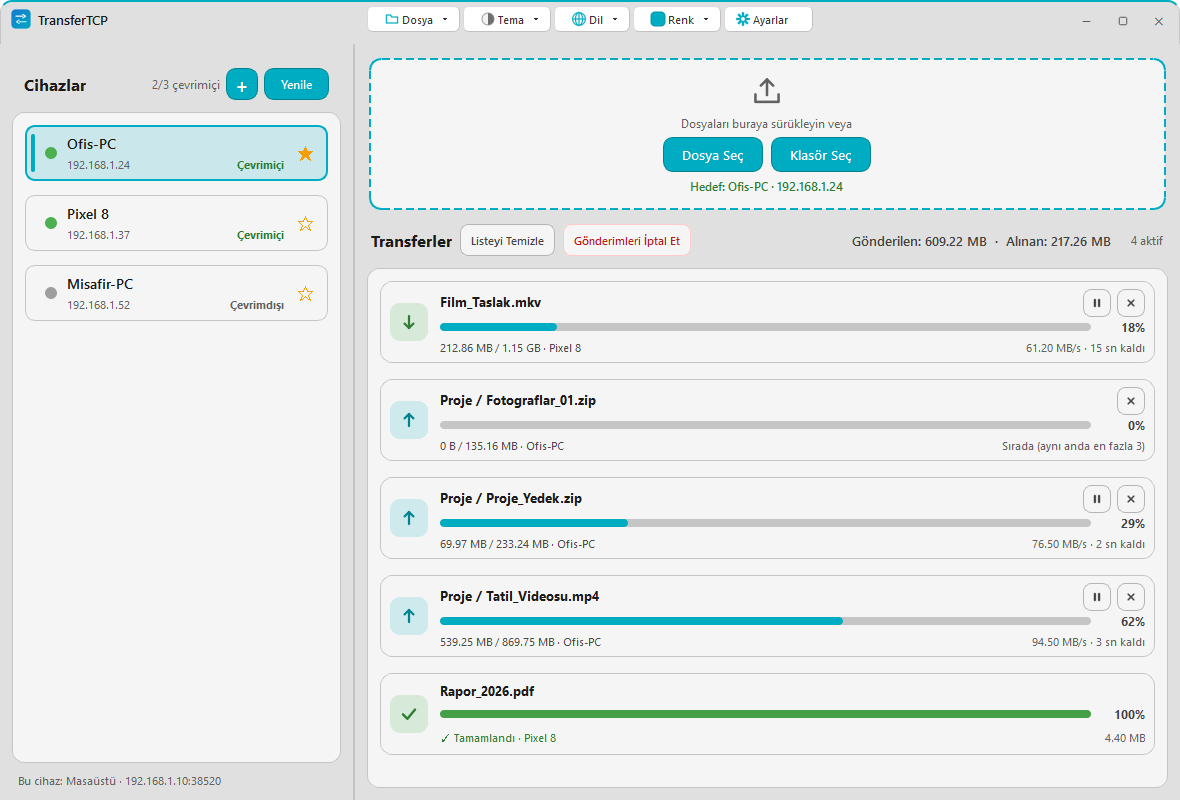
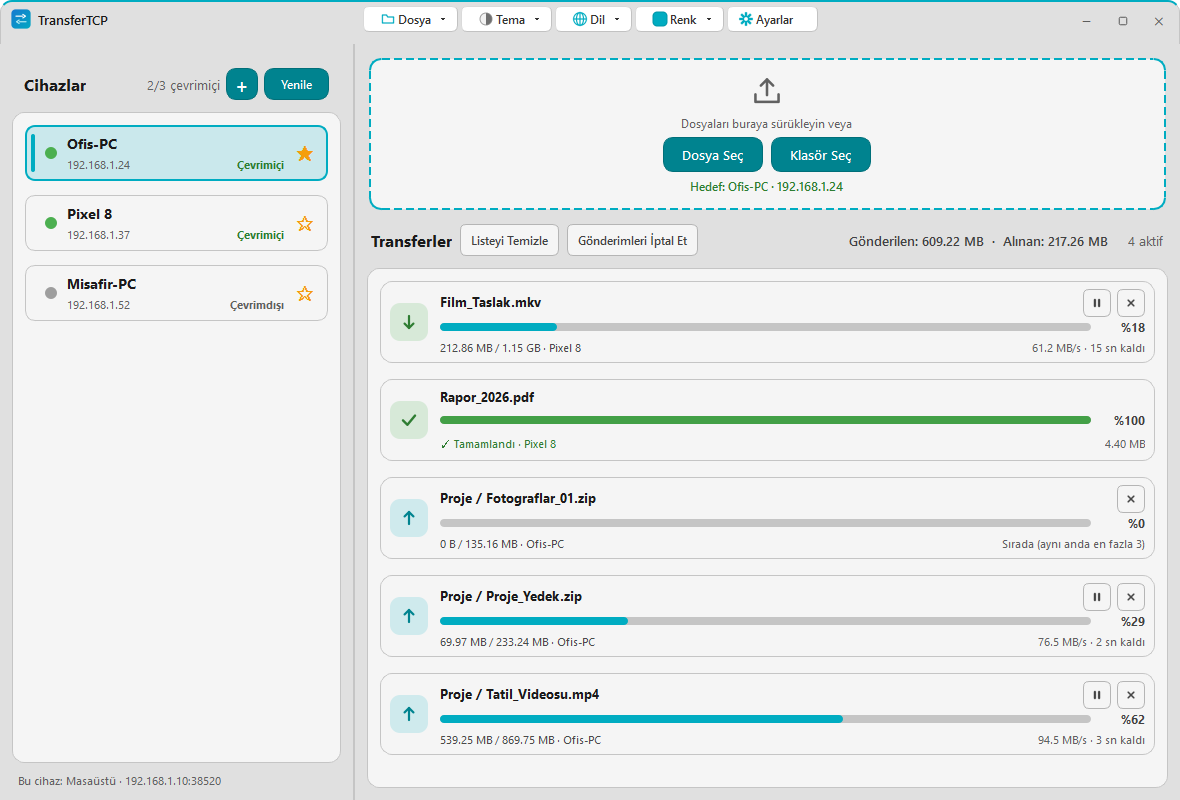
1.0.7: percentages written the way the language does (%41 / 41%) in the update window and the transfer list; README links the GitHub release; refreshed screenshots; message box tests stop their safety timers

diff --git a/tests/test_message_box.py b/tests/test_message_box.py
@@ -507,6 +507,15 @@ class TestHookTests(Base):
 
 
 class InputDialogTests(Base):
+    def _safety_close(self) -> None:
+        """Closes a dialog still open after 5 s. The timer stops when the test ends: left running, it closed a later
+        test's box (on a slow machine ParentGoneWhileOpenTest's box shut before its parent went away)."""
+        timer = QTimer()
+        timer.setSingleShot(True)
+        timer.timeout.connect(lambda: (QApplication.activeModalWidget() or QWidget()).close())
+        timer.start(5000)
+        self.addCleanup(timer.stop)
+
     def test_hook_results_for_all_getters(self) -> None:
         MessageBox.set_test_hook(lambda d: ("Yeni Ad", True))
         self.assertEqual(InputDialog.getText(None, "T", "Ad", text="Eski"), ("Yeni Ad", True))
@@ -573,12 +582,12 @@ class InputDialogTests(Base):
             QTest.keyClick(dlg, Qt.Key.Key_Return)
 
         QTimer.singleShot(0, act)
-        QTimer.singleShot(5000, lambda: (QApplication.activeModalWidget() or QWidget()).close())
+        self._safety_close()
         self.assertEqual(InputDialog.getText(None, "Cihaz", "Ad", text="eski"), ("Ofis PC", True))
 
     def test_real_exec_escape_and_cancel_button(self) -> None:
         QTimer.singleShot(0, lambda: QTest.keyClick(QApplication.activeModalWidget(), Qt.Key.Key_Escape))
-        QTimer.singleShot(5000, lambda: (QApplication.activeModalWidget() or QWidget()).close())
+        self._safety_close()
         self.assertEqual(InputDialog.getText(None, "Cihaz", "Ad", text="eski"), ("", False))
         QTimer.singleShot(0, lambda: QApplication.activeModalWidget().button(SB.Cancel).click())
         self.assertEqual(InputDialog.getInt(None, "T", "Sayı", 3, 0, 9), (3, False))
@@ -590,7 +599,7 @@ class InputDialogTests(Base):
             QTest.keyClick(dlg, Qt.Key.Key_Return)
 
         QTimer.singleShot(0, act)
-        QTimer.singleShot(5000, lambda: (QApplication.activeModalWidget() or QWidget()).close())
+        self._safety_close()
         self.assertEqual(InputDialog.getInt(None, "T", "px", 1920, 240, 7680, 10), (2500, True))
 
     def test_get_item_editable_flag(self) -> None:

diff --git a/tests/test_update_dialog.py b/tests/test_update_dialog.py
@@ -92,8 +92,18 @@ class DownloadingStateTest(DialogCase):
         self.assertFalse(dlg.progress_label.isHidden())
         dlg.update_download_progress(10 * 1024 * 1024, 40 * 1024 * 1024, 2.5)
         self.assertEqual(dlg.progress_bar.value(), 25)
-        self.assertIn("10.00 MB / 40.00 MB (25%)", dlg.progress_label.text())
+        self.assertIn("10.00 MB / 40.00 MB (%25)", dlg.progress_label.text())
+        dlg.progress_bar.finish_animation()
+        self.assertEqual(dlg.progress_bar.text(), "%25", "the bar and the line write the percent alike")
         self.assertIn("2.50 MB/s", dlg.progress_label.text())
+
+    def test_percent_in_english(self):
+        dlg = self.dialog(lang="en")
+        dlg.show_downloading_state()
+        dlg.update_download_progress(10 * 1024 * 1024, 40 * 1024 * 1024, 0.0)
+        dlg.progress_bar.finish_animation()
+        self.assertIn("(25%)", dlg.progress_label.text())
+        self.assertEqual(dlg.progress_bar.text(), "25%")
 
     def test_unknown_total_shows_a_busy_bar(self):
         dlg = self.dialog()

diff --git a/src/gui/update_dialog.py b/src/gui/update_dialog.py
@@ -123,6 +123,7 @@ class UpdateDialog(ChromeDialog):
         self.progress_bar.setRange(0, 100)
         self.progress_bar.setValue(0)
         self.progress_bar.setMinimumHeight(18)
+        self.progress_bar.setFormat(t("pct", self.lang).format("%p"))  # the bar and the line under it alike: "%41" in Turkish, "41%" in English
         self.progress_bar.setVisible(False)
         layout.addWidget(self.progress_bar)
 
@@ -287,7 +288,7 @@ class UpdateDialog(ChromeDialog):
             self.progress_bar.setValue(percent)
 
             total_str = format_bytes(total)
-            progress_text = f"{downloaded_str} / {total_str} ({percent}%)"
+            progress_text = f"{downloaded_str} / {total_str} ({t('pct', self.lang).format(percent)})"
         else:
             self.progress_bar.setRange(0, 0)
             progress_text = t("update_downloaded_bytes", self.lang).format(bytes=downloaded_str)

diff --git a/src/utils/locales.py b/src/utils/locales.py
@@ -213,6 +213,7 @@ LOCALES: dict[str, dict[str, str]] = {
         "update_later": "Daha Sonra",
         "update_now": "Şimdi Güncelle",
         "update_downloading": "İndiriliyor…",
+        "pct": "%{}",
         "update_downloaded_bytes": "{bytes} indirildi",
         "update_download_done": "İndirme tamamlandı!",
         "update_installing": "Kuruluyor, lütfen bekleyin…",
@@ -515,6 +516,7 @@ LOCALES: dict[str, dict[str, str]] = {
         "update_later": "Later",
         "update_now": "Update Now",
         "update_downloading": "Downloading…",
+        "pct": "{}%",
         "update_downloaded_bytes": "{bytes} downloaded",
         "update_download_done": "Download complete!",
         "update_installing": "Installing, please wait…",

diff --git a/src/utils/updater.py b/src/utils/updater.py
@@ -79,7 +79,7 @@ class UpdateChecker(QObject):
     notice_received = pyqtSignal(object)  # remote_notice.Notice (duyuru satırı)
 
     # Update check configuration - Edit these values directly in this file
-    CURRENT_VERSION = "1.0.6"  # Update this version number when releasing
+    CURRENT_VERSION = "1.0.7"  # Update this version number when releasing
     UPDATE_CHECK_URL = "https://macik.com.tr/api/updates/check"  
     APP_NAME = "TransferTCP"
     # Açılışta: son denetim bundan eskiyse hemen denetlenir (uzun süre açılmayanlar yeni sürümü hemen görür).

diff --git a/tests/test_ui_polish.py b/tests/test_ui_polish.py
@@ -189,7 +189,7 @@ class TransferCardTest(unittest.TestCase):
         transfer.start()
         transfer.bytes_transferred = 2_500_000
         card._update_ui()
-        self.assertEqual(card.percent_label.text(), "25%")
+        self.assertEqual(card.percent_label.text(), "%25")  # Turkish writes the sign first
         self.assertFalse(card.cancel_btn.icon().isNull(), "iptal düğmesi çizilmiş simge taşımalı (emoji değil)")
         self.assertEqual(card.cancel_btn.text(), "")
         transfer.status = TransferStatus.PAUSED

diff --git a/src/gui/transfer_item.py b/src/gui/transfer_item.py
@@ -234,8 +234,9 @@ class TransferItemWidget(QWidget):
         else:
             progress = int(transfer.progress)
         self.progress_bar.setValue(progress)
-        self.progress_bar.setFormat(f"{progress}%")
-        self.percent_label.setText(f"{progress}%")
+        pct = t("pct", self.lang).format(progress)  # "%41" in Turkish, "41%" in English
+        self.progress_bar.setFormat(pct)
+        self.percent_label.setText(pct)
         
         # Update status
         status_text = self._get_status_text()

diff --git a/src/__init__.py b/src/__init__.py
@@ -1,5 +1,5 @@
 """TransferTCP - Gelişmiş Dosya Transfer Uygulaması"""
 
-__version__ = "1.0.6"
+__version__ = "1.0.7"
 __author__ = "TransferTCP Team"
 

diff --git a/README.md b/README.md
@@ -63,6 +63,8 @@
 
 A single-file Windows build is available from **https://macik.com.tr**. It needs no installation. Run it on both computers. If Windows Defender Firewall asks on first start, allow access on **private networks**.
 
+Each [GitHub release](https://github.com/Aseloth99/transfertcp/releases/latest) also carries an exe built from this repository's source at that version's tag. It takes its updates from the same channel as the official build.
+
 ### From source
 
 Requires Python 3.12 and a desktop session.

diff --git a/README.tr.md b/README.tr.md
@@ -63,6 +63,8 @@
 
 Tek dosyalık Windows sürümü **https://macik.com.tr** adresinde bulunur. Kurulum gerektirmez; iki bilgisayarda da çalıştırın. Windows Güvenlik Duvarı ilk açılışta izin isterse **özel ağlar** için izin verin.
 
+Her [GitHub sürümünde](https://github.com/Aseloth99/transfertcp/releases/latest) o sürümün etiketindeki kaynaktan derlenmiş bir exe de bulunur. Güncellemelerini resmî sürümle aynı kanaldan alır.
+
 ### Kaynaktan
 
 Python 3.12 ve bir masaüstü oturumu gerekir.
